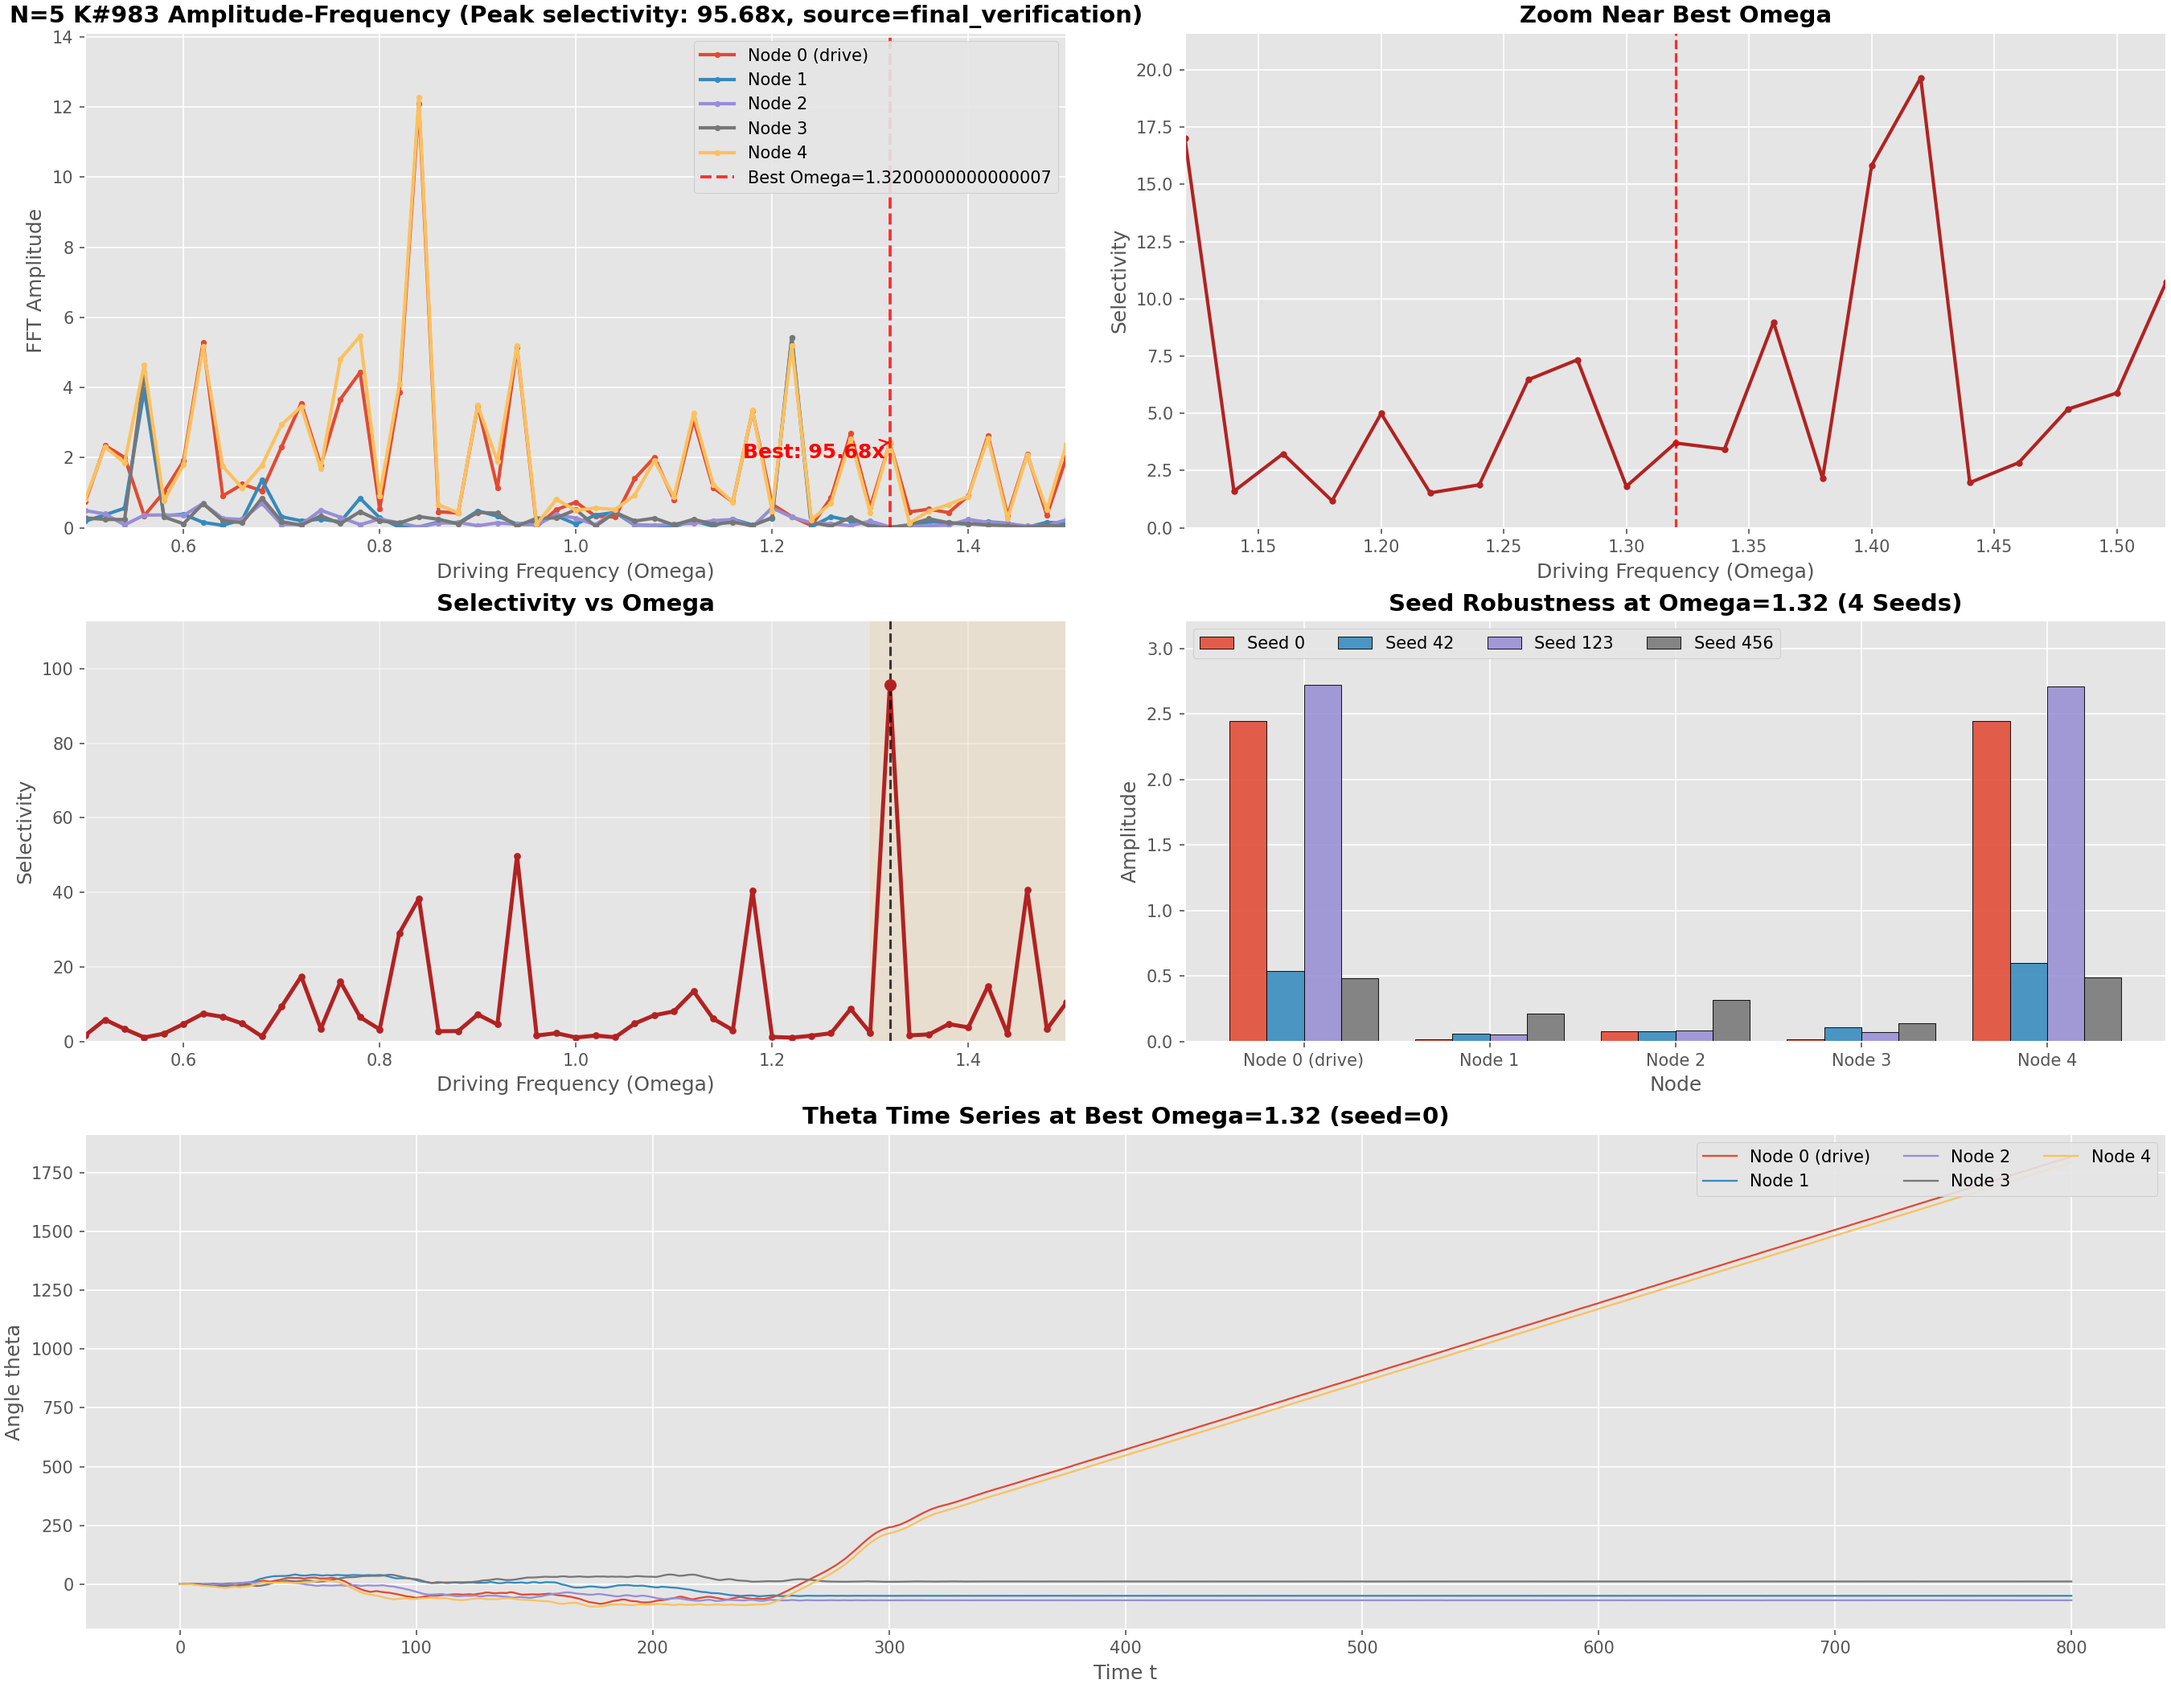
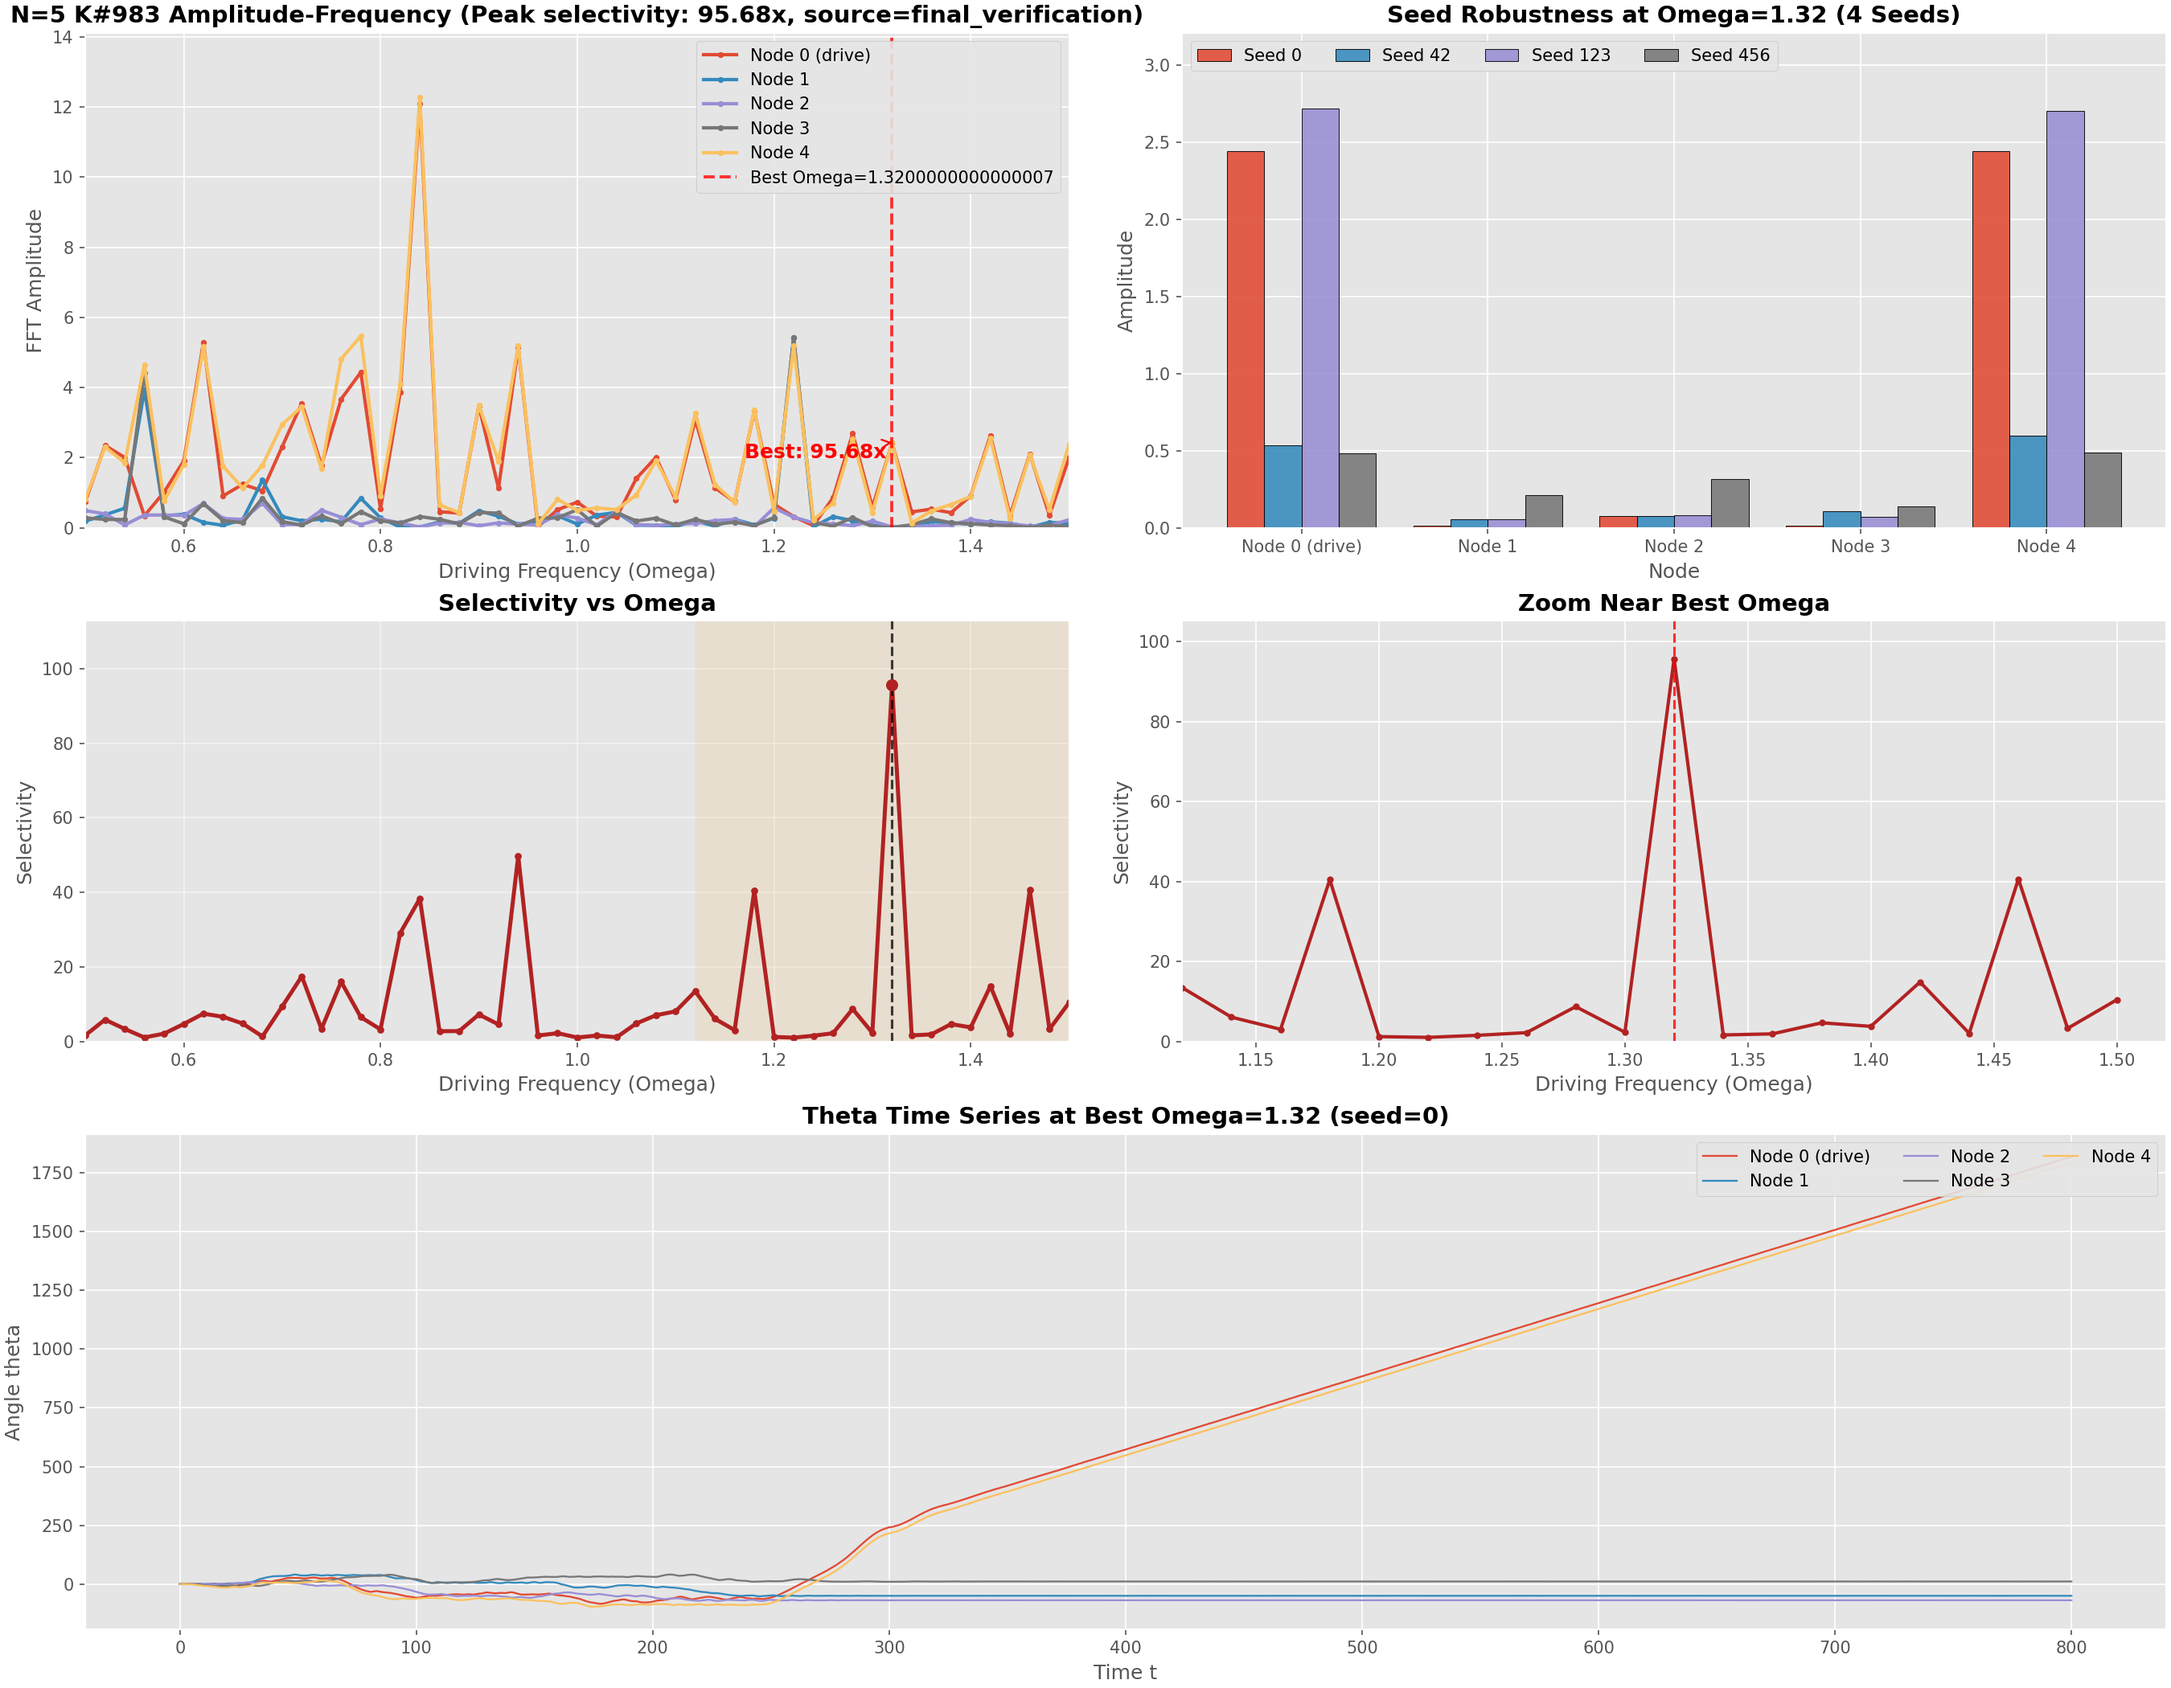
Add stable verification plots and plotting script
Add numerous stable verification PNGs under results/figures/stable_high_verifications and update an existing top1 verification image and .DS_Store. Introduce scripts/plot_all_stable_verifications.py to generate one verification figure per stable candidate (supports parallel workers, theta simulation, zoom/seed panels and saves per-candidate PNGs). Update plot_strict_results.py to reorder panels, remove an unused target_omega variable, and switch the zoom panel to slice existing omegas (avoid recomputing fine-range simulations). Small plotting/layout and robustness tweaks for selectivity/zoom/seed plotting.

diff --git a/n5_kij_structure_study/scripts/plot_all_stable_verifications.py b/n5_kij_structure_study/scripts/plot_all_stable_verifications.py
@@ -2,8 +2,11 @@
 from __future__ import annotations
 
 import argparse
+from concurrent.futures import ProcessPoolExecutor, as_completed
 import json
+import os
 from pathlib import Path
+import time
 
 import matplotlib.pyplot as plt
 import numpy as np
@@ -15,11 +18,17 @@ from src.simulate_kij import run_simulation
 
 def parse_args() -> argparse.Namespace:
     root = Path(__file__).resolve().parents[1]
-    p = argparse.ArgumentParser(description="Plot strict-search summary with full/zoom/robustness/theta panels.")
+    p = argparse.ArgumentParser(description="Plot verification figures for all stable final candidates.")
     p.add_argument("--json_path", type=Path, default=root / "results" / "data" / "n5_strict_results.json")
-    p.add_argument("--out_path", type=Path, default=root / "results" / "figures" / "n5_top1_verification_en.png")
+    p.add_argument(
+        "--out_dir",
+        type=Path,
+        default=root / "results" / "figures" / "stable_high_verifications",
+        help="Directory used to save one verification figure per stable candidate.",
+    )
     p.add_argument("--zoom_half_width", type=float, default=0.2, help="Half-width around best omega for zoom panel.")
     p.add_argument("--theta_seed", type=int, default=None, help="Seed for theta(t) panel; default uses first final seed.")
+    p.add_argument("--workers", type=int, default=10, help="Number of worker processes for parallel plotting.")
     return p.parse_args()
 
 
@@ -43,76 +52,45 @@ def simulate_theta(params: ParamsKij) -> tuple[np.ndarray, np.ndarray]:
     return t_eval, theta
 
 
-def main() -> None:
-    args = parse_args()
-    args.out_path.parent.mkdir(parents=True, exist_ok=True)
+def _format_seconds(seconds: float) -> str:
+    seconds = max(0.0, float(seconds))
+    mins, secs = divmod(int(seconds), 60)
+    hours, mins = divmod(mins, 60)
+    if hours:
+        return f"{hours:d}h{mins:02d}m{secs:02d}s"
+    return f"{mins:02d}m{secs:02d}s"
 
-    data = json.loads(args.json_path.read_text(encoding="utf-8"))["strict_search"]
-    cfg = data.get("config", {})
+
+def _print_progress(done: int, total: int, start_time: float, extra: str = "") -> None:
+    if total <= 0:
+        print("[plot] 0/0")
+        return
+    elapsed = time.perf_counter() - start_time
+    rate = done / elapsed if elapsed > 0 else 0.0
+    eta = (total - done) / rate if rate > 1e-12 else 0.0
+    message = (
+        f"\r[plot] {done}/{total} "
+        f"({100.0 * done / total:5.1f}%) "
+        f"elapsed={_format_seconds(elapsed)} "
+        f"eta={_format_seconds(eta)}"
+    )
+    if extra:
+        message += f" | {extra}"
+    print(message, end="" if done < total else "\n", flush=True)
+
+
+def plot_candidate(
+    candidate: dict,
+    cfg: dict,
+    out_path: Path,
+    zoom_half_width: float,
+    theta_seed_override: int | None,
+) -> None:
     use_target_band = bool(cfg.get("use_target_band", False))
-    final = data.get("final_verification", [])
-    refined = data.get("refined_results", [])
-    robust = data.get("robustness_test", [])
-    coarse = data.get("coarse_results", [])
+    K = np.array(candidate["K"], dtype=float)
+    omega_selected = float(candidate["omega"])
+    seed_results = {int(r["seed"]): r for r in candidate.get("seed_results", [])}
 
-    # Fallback priority: final -> refined -> robustness -> coarse.
-    if final:
-        candidate_pool = [
-            {
-                "kidx": c["kidx"],
-                "K": c["K"],
-                "omega": c["omega"],
-                "avg_selectivity": c["avg_selectivity"],
-                "seed_results": c.get("seed_results", []),
-                "source": "final_verification",
-            }
-            for c in final
-        ]
-    elif refined:
-        candidate_pool = [
-            {
-                "kidx": c["kidx"],
-                "K": c["K"],
-                "omega": c["refined_omega"],
-                "avg_selectivity": c["refined_selectivity"],
-                "seed_results": [],
-                "source": "refined_results",
-            }
-            for c in refined
-        ]
-    elif robust:
-        candidate_pool = [
-            {
-                "kidx": c["kidx"],
-                "K": c["K"],
-                "omega": c["original_omega"],
-                "avg_selectivity": c["min_selectivity"],
-                "seed_results": [],
-                "source": "robustness_test",
-            }
-            for c in robust
-        ]
-    elif coarse:
-        candidate_pool = [
-            {
-                "kidx": c["kidx"],
-                "K": c["K"],
-                "omega": c["best_omega"],
-                "avg_selectivity": c["best_selectivity"],
-                "seed_results": [],
-                "source": "coarse_results",
-            }
-            for c in coarse
-        ]
-    else:
-        raise ValueError("No candidates found in strict_search JSON.")
-
-    # Always visualize the strongest verified candidate. Using target-band
-    # proximity here made the plot highlight a candidate that was not the
-    # actual stable winner of the run.
-    best = max(candidate_pool, key=lambda x: x["avg_selectivity"])
-    K = np.array(best["K"], dtype=float)
-    omega_selected = float(best["omega"])
     n_nodes = int(cfg.get("N", K.shape[0]))
     gamma = float(cfg.get("gamma", 0.08))
     force = float(cfg.get("F", 0.1))
@@ -144,13 +122,11 @@ def main() -> None:
         amp_by_omega.append(run_simulation(p)["amp_fft"])
     amp_by_omega = np.array(amp_by_omega, dtype=float)
 
-    seeds = final_seeds
-    seed_results = {int(r["seed"]): r for r in best.get("seed_results", [])}
-    if seed_results and all(s in seed_results and "amp_fft" in seed_results[s] for s in seeds):
-        amp_by_seed = np.array([seed_results[s]["amp_fft"] for s in seeds], dtype=float)
+    if seed_results and all(s in seed_results and "amp_fft" in seed_results[s] for s in final_seeds):
+        amp_by_seed = np.array([seed_results[s]["amp_fft"] for s in final_seeds], dtype=float)
     else:
         amp_by_seed = []
-        for s in seeds:
+        for s in final_seeds:
             p = ParamsKij(
                 N=n_nodes,
                 gamma=gamma,
@@ -175,7 +151,7 @@ def main() -> None:
     winner_idx = int(non_drive_idx[int(np.argmax(sel[best_idx]))])
     omega_best = float(omegas[best_idx])
 
-    theta_seed = args.theta_seed if args.theta_seed is not None else (seeds[0] if seeds else 0)
+    theta_seed = theta_seed_override if theta_seed_override is not None else (final_seeds[0] if final_seeds else 0)
     theta_params = ParamsKij(
         N=n_nodes,
         gamma=gamma,
@@ -216,9 +192,8 @@ def main() -> None:
         fontweight="bold",
         arrowprops=dict(arrowstyle="->", lw=1.1, color="red"),
     )
-    source_tag = best.get("source", "unknown")
     ax_full.set_title(
-        f"N={n_nodes} K#{best['kidx']} Amplitude-Frequency (Peak selectivity: {best_ratio:.2f}x, source={source_tag})",
+        f"N={n_nodes} K#{candidate['kidx']} Amplitude-Frequency (Peak selectivity: {best_ratio:.2f}x)",
         fontsize=14,
         fontweight="bold",
     )
@@ -228,33 +203,31 @@ def main() -> None:
     ax_full.set_ylim(0.0, float(max(0.05, amp_by_omega.max() * 1.15)))
     ax_full.legend(loc="upper right", framealpha=0.9)
 
-    zoom_half_width = max(float(args.zoom_half_width), 1e-9)
-    zx0 = omega_best - zoom_half_width
-    zx1 = omega_best + zoom_half_width
+    zx0 = omega_best - max(float(zoom_half_width), 1e-9)
+    zx1 = omega_best + max(float(zoom_half_width), 1e-9)
     zoom_mask = (omegas >= zx0 - 1e-12) & (omegas <= zx1 + 1e-12)
     omegas_zoom = omegas[zoom_mask]
     sel_ratio_zoom = sel_ratio[zoom_mask]
     ax_zoom.plot(omegas_zoom, sel_ratio_zoom, color="#b22222", marker="o", markersize=3.0, linewidth=2.0)
     ax_zoom.axvline(omega_best, color="red", linestyle="--", linewidth=1.5, alpha=0.8)
     ax_zoom.set_xlim(zx0, zx1)
-    y_zoom_max = float(np.max(sel_ratio_zoom))
-    ax_zoom.set_ylim(0.0, max(2.0, y_zoom_max * 1.10))
+    ax_zoom.set_ylim(0.0, max(2.0, float(np.max(sel_ratio_zoom)) * 1.10))
     ax_zoom.set_title("Zoom Near Best Omega", fontsize=14, fontweight="bold")
     ax_zoom.set_xlabel("Driving Frequency (Omega)")
     ax_zoom.set_ylabel("Selectivity")
 
     x = np.arange(amp_by_seed.shape[1])
-    width = 0.8 / max(len(seeds), 1)
-    for j, s in enumerate(seeds):
-        offset = (j - (len(seeds) - 1) / 2.0) * width
+    width = 0.8 / max(len(final_seeds), 1)
+    for j, s in enumerate(final_seeds):
+        offset = (j - (len(final_seeds) - 1) / 2.0) * width
         ax_bar.bar(x + offset, amp_by_seed[j], width=width, label=f"Seed {s}", edgecolor="black", alpha=0.88)
     ax_bar.set_xticks(x)
     ax_bar.set_xticklabels([node_label(int(i)) for i in x])
     ax_bar.set_xlabel("Node")
     ax_bar.set_ylabel("Amplitude")
-    ax_bar.set_title(f"Seed Robustness at Omega={omega_best:.2f} ({len(seeds)} Seeds)", fontsize=14, fontweight="bold")
+    ax_bar.set_title(f"Seed Robustness at Omega={omega_best:.2f} ({len(final_seeds)} Seeds)", fontsize=14, fontweight="bold")
     ax_bar.set_ylim(0.0, float(max(0.05, amp_by_seed.max() * 1.18)))
-    ax_bar.legend(loc="upper left", framealpha=0.9, ncol=min(4, len(seeds)))
+    ax_bar.legend(loc="upper left", framealpha=0.9, ncol=min(4, len(final_seeds)))
 
     ax_sel.plot(omegas, sel_ratio, color="#b22222", linewidth=2.4, marker="o", markersize=3.2)
     ax_sel.axvline(omega_best, color="black", linestyle="--", linewidth=1.5, alpha=0.75)
@@ -275,10 +248,61 @@ def main() -> None:
     ax_theta.set_ylabel("Angle theta")
     ax_theta.legend(loc="upper right", ncol=min(3, n_nodes), framealpha=0.9)
 
-    fig.savefig(args.out_path, dpi=150)
+    out_path.parent.mkdir(parents=True, exist_ok=True)
+    fig.savefig(out_path, dpi=150)
     plt.close(fig)
-    print(f"json: {args.json_path}")
-    print(f"saved: {args.out_path}")
+
+
+def _plot_worker(payload: dict) -> int:
+    plot_candidate(
+        candidate=payload["candidate"],
+        cfg=payload["cfg"],
+        out_path=Path(payload["out_path"]),
+        zoom_half_width=float(payload["zoom_half_width"]),
+        theta_seed_override=payload["theta_seed_override"],
+    )
+    return int(payload["candidate"]["kidx"])
+
+
+def main() -> None:
+    args = parse_args()
+    data = json.loads(args.json_path.read_text(encoding="utf-8"))["strict_search"]
+    cfg = data.get("config", {})
+    final = data.get("final_verification", [])
+    stable = [c for c in final if bool(c.get("stable"))]
+    if not stable:
+        raise ValueError("No stable final candidates found in the JSON file.")
+
+    args.out_dir.mkdir(parents=True, exist_ok=True)
+    stable = sorted(stable, key=lambda x: int(x["kidx"]))
+    workers = max(1, min(int(args.workers), os.cpu_count() or 1))
+    print(f"saving {len(stable)} stable verification figures to {args.out_dir} with {workers} workers")
+
+    start_time = time.perf_counter()
+    payloads = [
+        {
+            "candidate": candidate,
+            "cfg": cfg,
+            "out_path": str(args.out_dir / f"K{int(candidate['kidx'])}_verification_en.png"),
+            "zoom_half_width": float(args.zoom_half_width),
+            "theta_seed_override": args.theta_seed,
+        }
+        for candidate in stable
+    ]
+    if workers == 1:
+        for idx, payload in enumerate(payloads, start=1):
+            kidx = _plot_worker(payload)
+            _print_progress(idx, len(payloads), start_time, extra=f"K{kidx}")
+    else:
+        done = 0
+        with ProcessPoolExecutor(max_workers=workers) as ex:
+            futures = [ex.submit(_plot_worker, payload) for payload in payloads]
+            for fut in as_completed(futures):
+                kidx = fut.result()
+                done += 1
+                _print_progress(done, len(payloads), start_time, extra=f"K{kidx}")
+
+    print(f"done: {args.out_dir}")
 
 
 if __name__ == "__main__":
